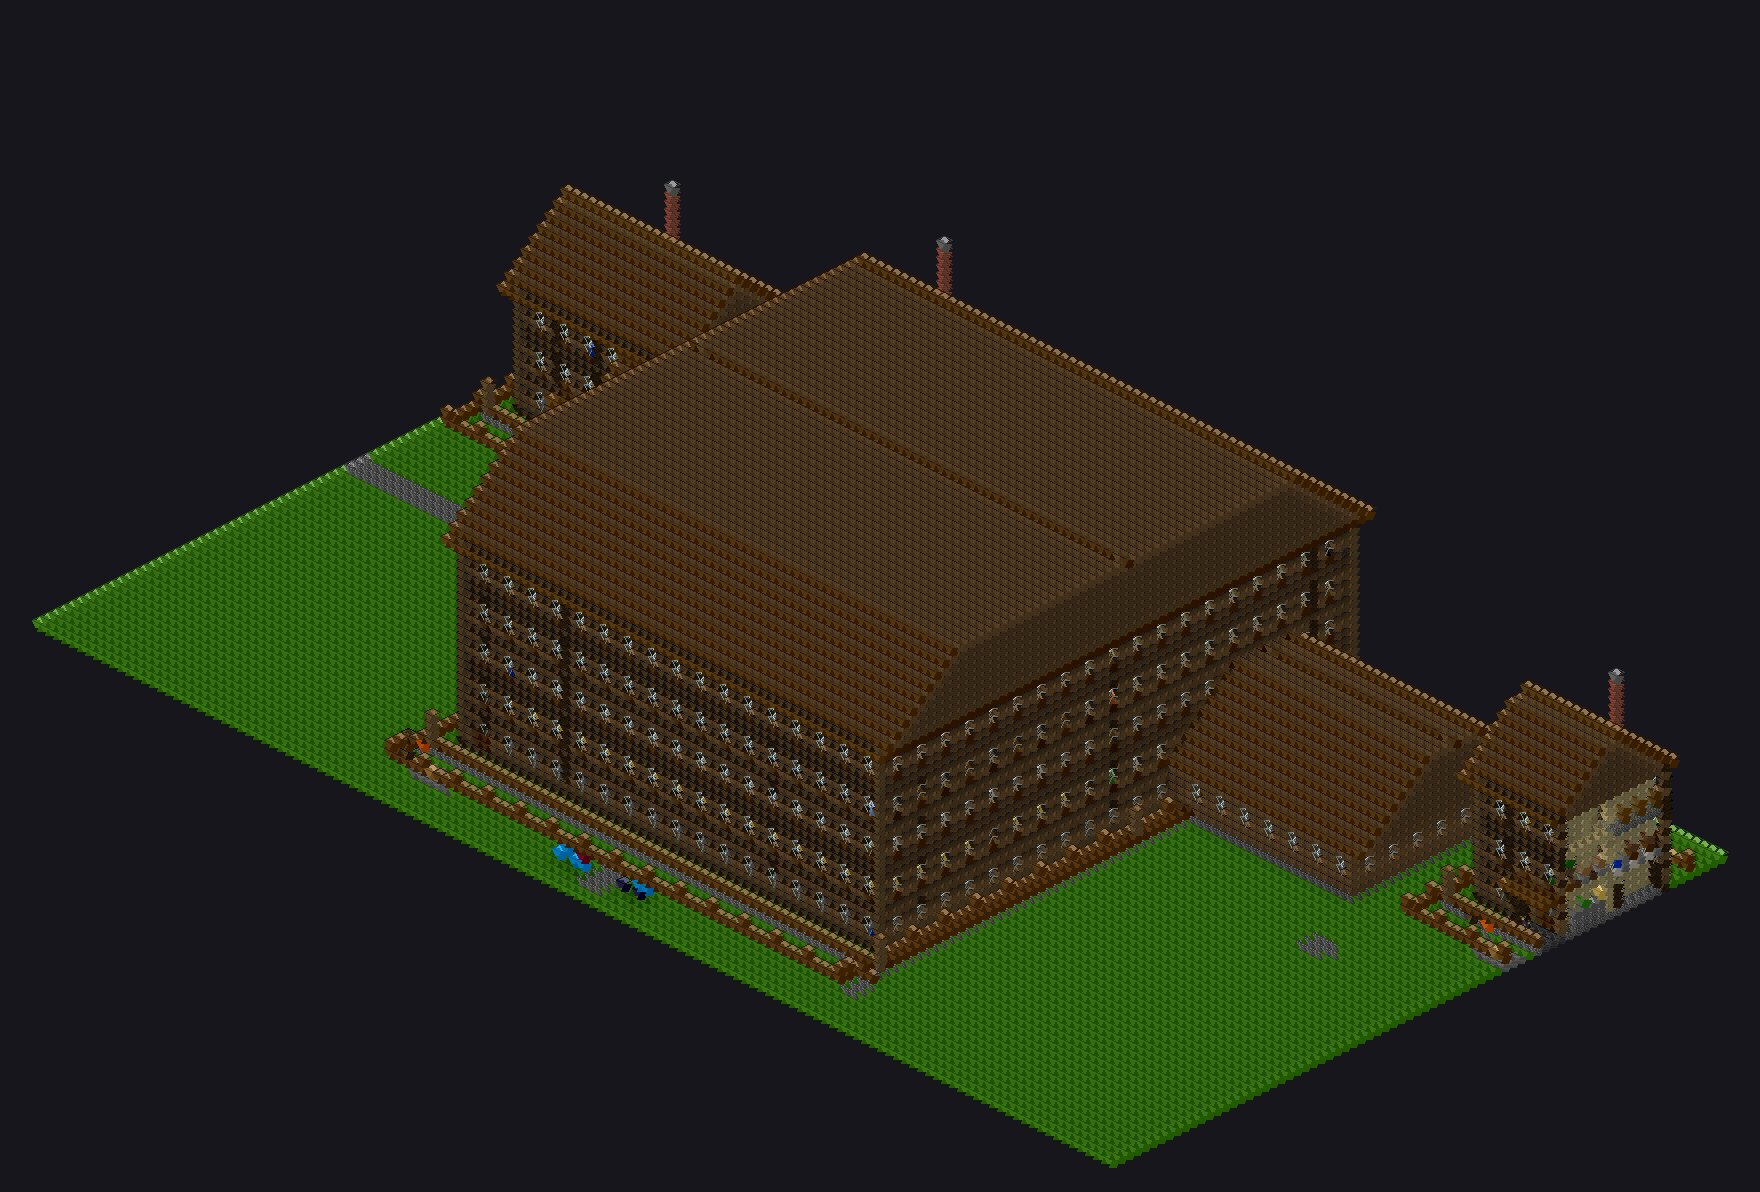
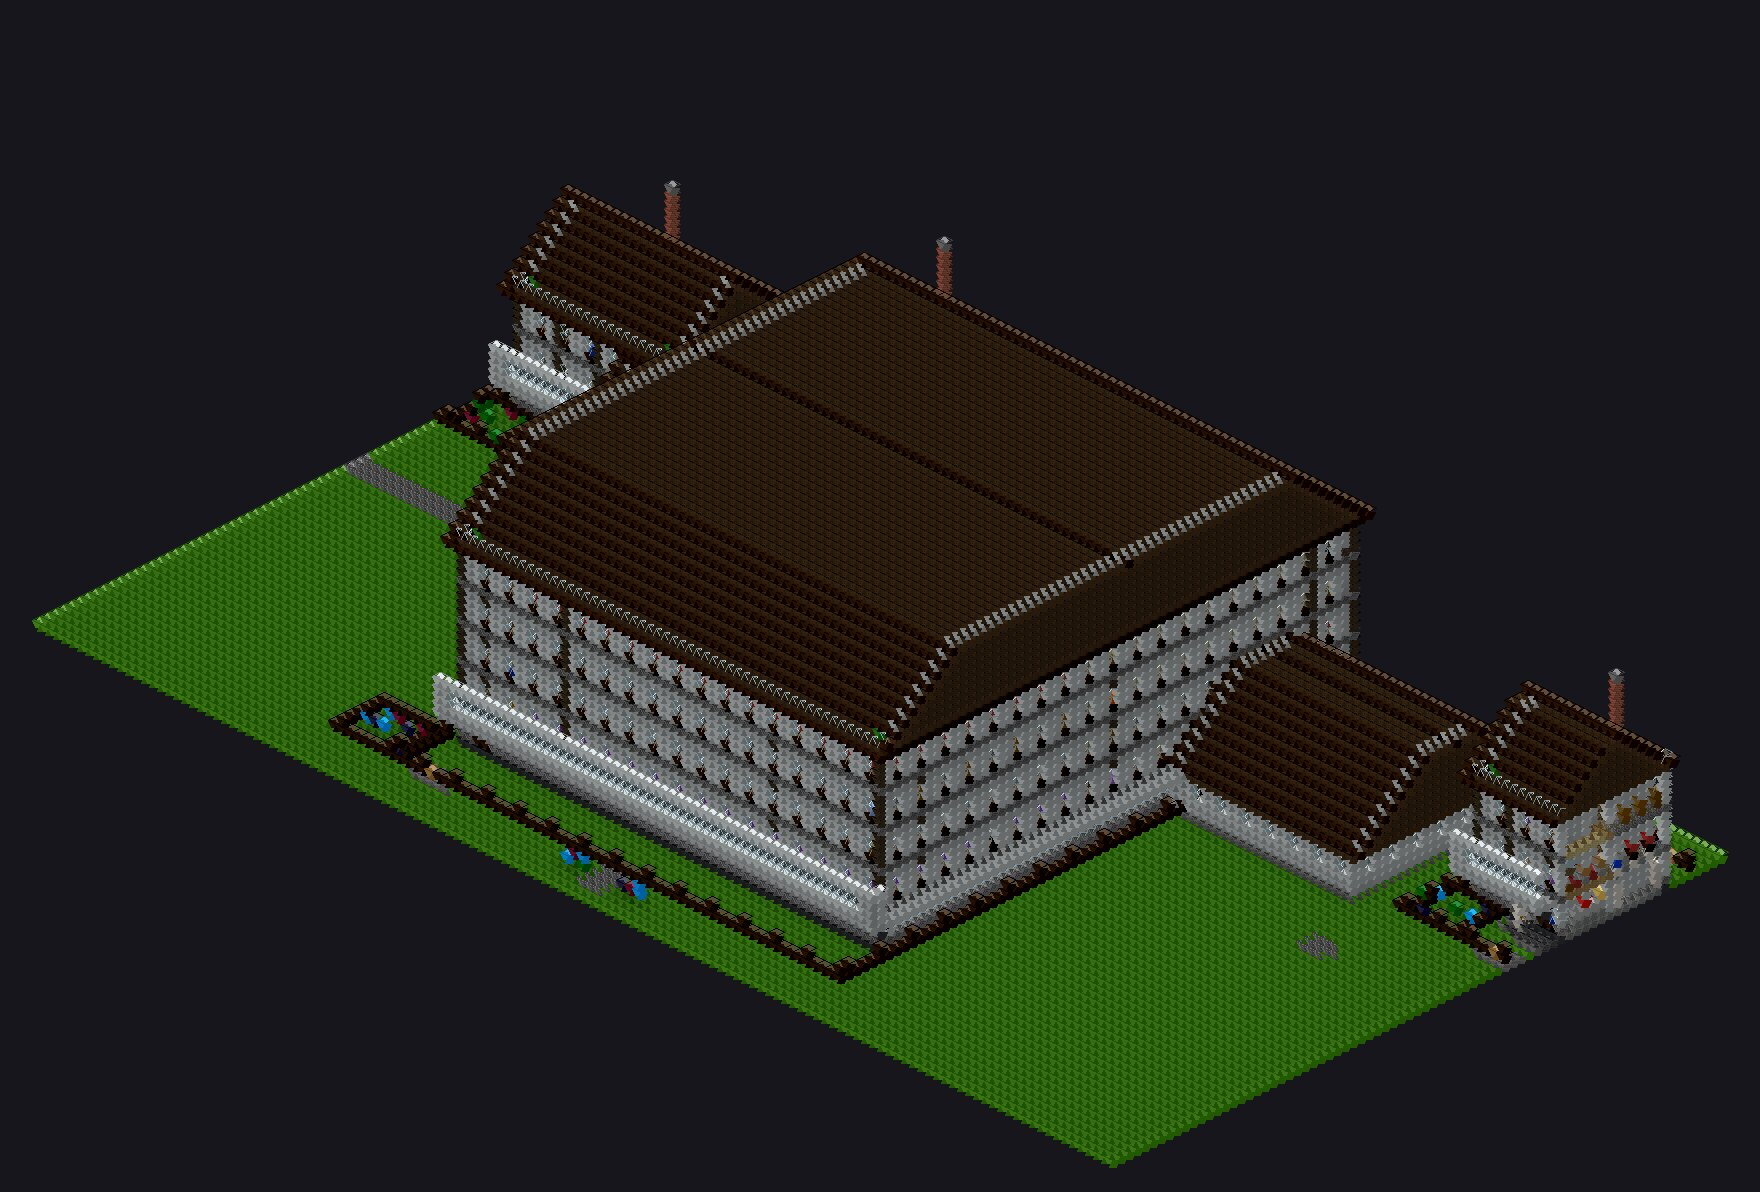
fix: density-aware style fallback, floor cap, year-range refinement
- Uncertain year fallback now uses density + region:
  NE + formal road → fantasy (colonial), rural → rustic, urban → gothic
- inferStyle: 1890-1970 → fantasy (Colonial Revival era, was rustic)
- Small footprint (< 200 sqm) caps stories at 3 to account for
  Parcl sqft including basement/attic
- Grand Rapids: fantasy 3f (was rustic 4f)
- Walpole: fantasy 3f (was rustic 3f)
- Vinalhaven: rustic 2f (unchanged — rural Rd)

— Opus 4.6

Changed region(s): [[0.1875, 0.1552, 0.9688, 0.8381]]

diff --git a/src/gen/address-pipeline.ts b/src/gen/address-pipeline.ts
@@ -161,8 +161,8 @@ export function inferStyle(year: number, newConstruction = false): StyleName {
   if (newConstruction || year >= 2010) return 'modern';
   if (year < 1700) return 'medieval';
   if (year < 1850) return 'gothic';
-  if (year < 1920) return 'rustic';
-  if (year < 1970) return 'fantasy';
+  if (year < 1890) return 'rustic';   // Victorian-era wood-frame (pre-Colonial Revival)
+  if (year < 1970) return 'fantasy';  // Colonial Revival, Foursquare, mid-century — formal trim
   return 'modern';
 }
 
@@ -282,7 +282,22 @@ export function resolveStyle(prop: PropertyData): StyleName {
   const propTypeStyle = inferStyleFromPropertyType(prop.propertyType, year);
   const cityStyle = inferStyleFromCity(prop.city, year);
   const countyStyle = inferStyleFromCounty(prop.county, year);
-  const fallback = prop.yearUncertain ? 'rustic' as StyleName : inferStyle(year, prop.newConstruction);
+  // When year is uncertain, use density + region to pick a reasonable default:
+  // - Rural/coastal → 'rustic' (wood-frame, natural materials)
+  // - Village/suburban → 'fantasy' (colonial/traditional — white clapboard, formal trim)
+  // - Urban → 'gothic' (brownstone, brick rowhouse)
+  const uncertainFallback = (): StyleName => {
+    const density = inferDensityFromZip(prop.zipCode);
+    if (density === 'urban') return 'gothic';
+    // New England village homes (NH, VT, MA, CT, ME, RI) with formal road types
+    // are overwhelmingly white colonial/Federal, not rustic lodges
+    const ne = ['NH', 'VT', 'MA', 'CT', 'ME', 'RI'].includes(prop.stateAbbreviation?.toUpperCase() ?? '');
+    const formalRoad = /\b(st|ave|blvd|dr|ct|pl|sq|way)\b/i.test(prop.address);
+    if (ne && formalRoad) return 'fantasy'; // Colonial/Federal proxy
+    if (density === 'suburban' && formalRoad) return 'fantasy';
+    return 'rustic';
+  };
+  const fallback = prop.yearUncertain ? uncertainFallback() : inferStyle(year, prop.newConstruction);
   return archStyle ?? propTypeStyle ?? cityStyle ?? countyStyle ?? fallback;
 }
 
@@ -341,9 +356,15 @@ export function estimateStoriesFromFootprint(
   if (footprintSqm <= 0) return 2; // fallback
   const totalSqm = sqft / 10.76; // sqft to sqm
   const rawFloors = totalSqm / footprintSqm;
-  // Use ceil for large homes — OSM bounding boxes overestimate the footprint
-  // area vs actual buildable area (Victorian wings, setbacks, irregular shapes),
-  // so sqft/footprint underestimates floor count
+  // When the footprint is small (< 200 sqm) but sqft is large, the listing
+  // likely includes finished basement/attic in the total. Parcl sqft commonly
+  // counts all "finished" area. Cap the raw estimate to avoid inflated floors.
+  // For larger footprints, use ceil since OSM bounding boxes overestimate
+  // area vs actual buildable area (wings, setbacks, irregular shapes).
+  if (footprintSqm < 200 && rawFloors > 3) {
+    // Small footprint: clamp to 3 floors max — extra sqft is likely basement/attic
+    return 3;
+  }
   const rounding = sqft >= 5000 ? Math.ceil : Math.round;
   return Math.max(1, Math.min(100, rounding(rawFloors)));
 }

diff --git a/web/public/comparison/index.html b/web/public/comparison/index.html
@@ -260,10 +260,10 @@ const LOCATIONS = {
     label: 'Newton',
     address: '240 Highland St, Newton, MA 02465',
     api: {
-      style: 'rustic', floors: 3, grid: '69\u00d725\u00d738', blocks: '13,425',
+      style: 'fantasy', floors: 3, grid: '69\u00d725\u00d738', blocks: '13,425',
       sqft: '9,094', beds: 9, baths: 5, year: '? (uncertain)',
       sources: 'Parcl + OSM + Mapillary',
-      notes: 'Year uncertain \u2014 rustic 3f Victorian, OSM 17\u00d721 footprint'
+      notes: 'Year uncertain \u2014 fantasy 3f (NE colonial fallback), OSM 17\u00d721'
     },
     noapi: {
       style: 'fantasy', floors: 2, grid: '78\u00d720\u00d740', blocks: '15,190',
@@ -286,10 +286,10 @@ const LOCATIONS = {
     label: 'San Jose',
     address: '525 S Winchester Blvd, San Jose, CA 95128',
     api: {
-      style: 'rustic', floors: 5, grid: '135\u00d735\u00d777', blocks: '77,895',
+      style: 'fantasy', floors: 5, grid: '135\u00d735\u00d777', blocks: '77,895',
       sqft: '24,000', beds: 3, baths: 2, year: 1901,
       sources: 'Parcl + OSM + Mapillary',
-      notes: 'Winchester Mystery House \u2014 OSM 53\u00d760, rustic Victorian'
+      notes: 'Winchester Mystery House \u2014 OSM 53\u00d760, fantasy colonial proxy'
     },
     noapi: {
       style: 'fantasy', floors: 2, grid: '78\u00d720\u00d740', blocks: '15,190',
